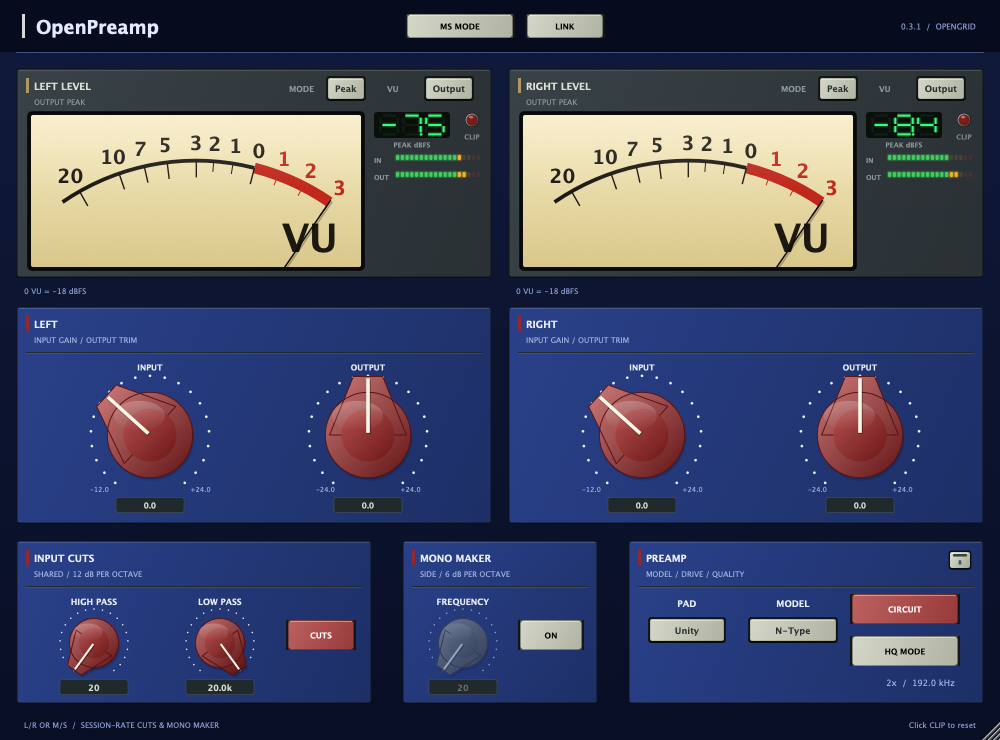
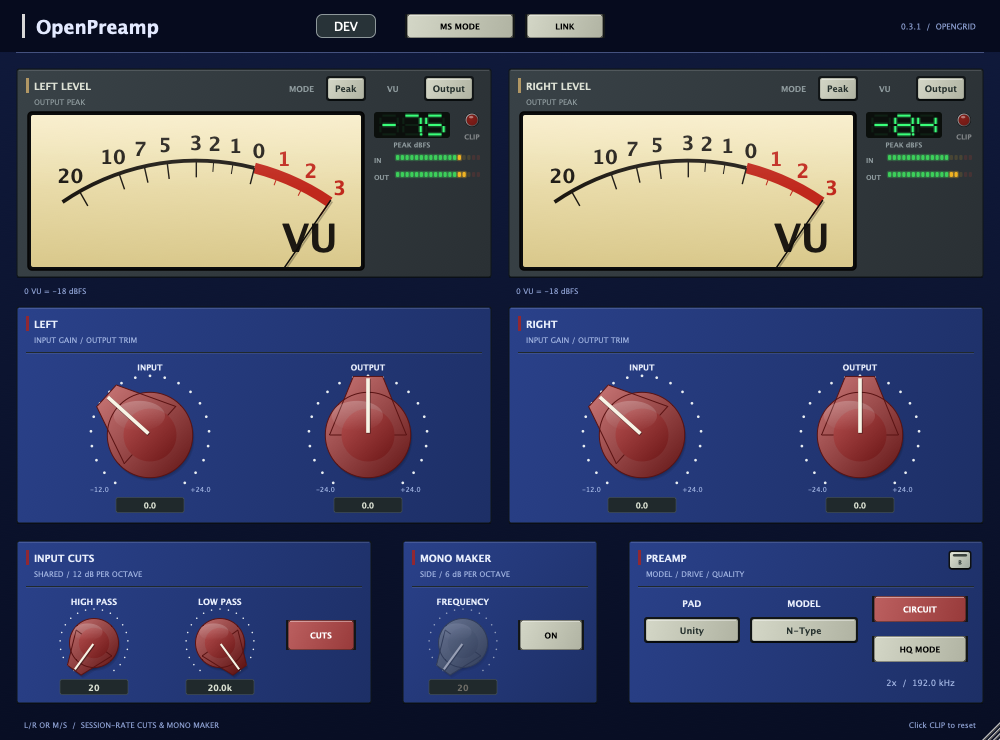
Allow compact UI and direct two-choice meter toggles

Changed region(s): [[0.682, 0.777, 0.992, 0.9014], [0.31, 0.0, 0.372, 0.0622], [0.62, 0.8392, 0.651, 0.8703]]

diff --git a/tests/openpreamp_stereo_tools.h b/tests/openpreamp_stereo_tools.h
@@ -56,6 +56,29 @@ static void runStereoToolsChecks() {
             check(matching==2,"Both independent VUs restore the shared Peak/RMS choice");
         }
     }
+    {
+        OpenPreampProcessor p;std::unique_ptr<juce::AudioProcessorEditor> editor(p.createEditor());int buttons=0;
+        for(auto* surface : editor->getChildren())for(auto* child : surface->getChildren())if(auto* choice=dynamic_cast<CycleButton*>(child)) {
+            juce::String label;juce::TextButton* key=nullptr;
+            for(auto* control : choice->getChildren()) {
+                if(auto* title=dynamic_cast<juce::Label*>(control))label=title->getText();
+                if(auto* button=dynamic_cast<juce::TextButton*>(control))key=button;
+            }
+            if(key && (label=="MODE" || label=="VU")) {
+                const char* id=label=="MODE" ? "meterMode" : "meterSource";
+                const float original=p.apvts.getRawParameterValue(id)->load();
+                key->onClick();const float toggled=p.apvts.getRawParameterValue(id)->load();
+                key->onClick();const float restored=p.apvts.getRawParameterValue(id)->load();
+                check(std::abs(toggled-(1-original))<1e-6f && std::abs(restored-original)<1e-6f,"Two-choice meter key changes host parameter directly on each click");
+                ++buttons;
+            }
+        }
+        check(buttons==4,"Both VUs expose direct-click MODE and source keys");
+        editor->setSize(400,296);
+        const auto image=editor->createComponentSnapshot(editor->getLocalBounds());
+        juce::FileOutputStream file(juce::File("/private/tmp/openpreamp-031-small.png"));
+        file.setPosition(0);file.truncate();juce::PNGImageFormat png;png.writeImageToStream(image,file);
+    }
     for(double rate : {44100.0,48000.0,96000.0})for(bool ms : {false,true}) {
         auto amplitude = [&](double frequency,bool side,bool enabled) {
             OpenPreampProcessor p;clean(p);set(p,"midSide",ms ? 1 : 0);set(p,"monoMakerEnabled",enabled ? 1 : 0);set(p,"monoMakerFrequency",200);prepare(p,rate);

diff --git a/Source/OpenPreampPlugin/PluginEditor.cpp b/Source/OpenPreampPlugin/PluginEditor.cpp
@@ -64,7 +64,7 @@ OpenPreampEditor::OpenPreampEditor(OpenPreampProcessor& p)
     rateLabel.setJustificationType(juce::Justification::centredRight);
     rateLabel.setInterceptsMouseClicks(false,false);
     setResizable(true,true);
-    setResizeLimits(750,555,1500,1110);
+    setResizeLimits(400,296,1500,1110);
     getConstrainer()->setFixedAspectRatio(1000.0/740.0);
     setSize(1000,740);
     loadKnobLayout(openPreampKnobDesign);
@@ -147,8 +147,8 @@ void OpenPreampEditor::resized()
     highPassDial.setBounds(24,54,108,102);lowPassDial.setBounds(150,54,108,102);
     cutsToggle.setBounds(270,80,70,30);
     monoMakerDial.setBounds(12,54,98,102);monoMakerToggle.setBounds(116,80,66,30);
-    preampPadBtn.setBounds(18,56,82,60);preampTypeBtn.setBounds(118,56,94,60);
-    preampCircuitToggle.setBounds(222,54,110,30);hqToggle.setBounds(222,96,110,30);
+    preampPadBtn.setBounds(14,56,100,60);preampTypeBtn.setBounds(120,56,112,60);
+    preampCircuitToggle.setBounds(244,56,96,26);hqToggle.setBounds(244,96,96,26);
     midSideToggle.setBounds(405,14,110,24);linkToggle.setBounds(525,14,80,24);
     rateLabel.setBounds(154,132,178,20);
 #if GOODLOOKINUI_ENABLE_EDITOR

diff --git a/Source/UI/CycleButton.h b/Source/UI/CycleButton.h
@@ -17,7 +17,7 @@ public:
     }
 };
 
-// A mechanical choice key opens a dropdown bound to stable DSP choice values.
+// Two-choice keys toggle directly; larger choice sets open a dropdown.
 class CycleButton : public juce::Component, private juce::AudioProcessorValueTreeState::Listener {
 public:
     CycleButton(juce::AudioProcessorValueTreeState& state, const juce::String& paramIDToUse,
@@ -40,7 +40,13 @@ public:
         button.setColour(juce::TextButton::buttonOnColourId, Theme::buttonBottom);
         button.setColour(juce::TextButton::textColourOffId, Theme::buttonText);
         button.setColour(juce::TextButton::textColourOnId, Theme::buttonText);
-        button.onClick = [this] { showChoices(); };
+        button.onClick = [this] {
+            if (param && param->choices.size() == 2) {
+                param->beginChangeGesture();
+                param->setValueNotifyingHost(param->getNormalisableRange().convertTo0to1(float(1-param->getIndex())));
+                param->endChangeGesture(); updateText();
+            } else showChoices();
+        };
         addAndMakeVisible(button);
 
         updateText();

diff --git a/tests/openpreamp_smoke.cpp b/tests/openpreamp_smoke.cpp
@@ -100,7 +100,7 @@ int main() {
         out.peak[0] = 0.42f; out.peak[1] = 0.38f;
         for (int i = 0; i < 30; ++i) meter->step(in, out, 1.0f / 30);
     }
-    for (const auto size : {juce::Point<int>(750,555), juce::Point<int>(1500,1110), juce::Point<int>(1000,740)}) {
+    for (const auto size : {juce::Point<int>(400,296), juce::Point<int>(500,370), juce::Point<int>(750,555), juce::Point<int>(1500,1110), juce::Point<int>(1000,740)}) {
         editor->setSize(size.x,size.y);
         check(contained(*editor), "scaled controls fit at small, large and default editor sizes");
     }

diff --git a/OPENPREAMP_HANDOFF.md b/OPENPREAMP_HANDOFF.md
@@ -1,7 +1,11 @@
 # OpenPreamp 0.3.1 stereo-tools update — 2026-10-08
 
 Adds the requested VUMT-style gain linking and mono maker to the approved dual
-layout. Version remains 0.3.1. VUMTdeluxe was tested interactively: Link disables
+layout. Version remains 0.3.1. Minimum editor size is now 400 × 296 (default
+1000 × 740, maximum 1500 × 1110). MODE and VU keys with two choices toggle
+directly on click; PAD and MODEL keep dropdowns. PAD/MODEL controls were widened
+and CIRCUIT/HQ narrowed. Filter DSP is unchanged: the reported low-end boost
+was a phase-response display mistaken for a magnitude plot. VUMTdeluxe was tested interactively: Link disables
 the right trim in L/R; M/S hides Link and enables independent Mid/Side trims;
 mono-maker power greys its controls. The reference settings were restored.
 VUMT also provides an Amount control; OpenPreamp implements the specifically
@@ -31,14 +35,15 @@ The header holds MS MODE (off = normal L/R) and Link; the bottom row holds cuts,
 and preamp settings. Input Cuts and Preamp both measure 356 × 164; Preamp
 was narrowed to match Input Cuts, with the mono maker centered between them. Saved colours, gain-knob geometry and resize limits are
 retained. Current UI-test Release VST3 built with developer mode ON and passed strict
-signature verification. All 220 smoke/routing checks passed, including opening
+signature verification. All 227 smoke/routing checks passed, including opening
 the DEV knob/layout and model-look window: linked gains, restoration
 on unlink, Link visible but disabled and dimmed in M/S, disabled right controls, Side-only 6 dB/octave
 response and Mid preservation at 44.1/48/96 kHz, every model against manually
 encoded/Side-filtered audio at native/2x/4x, state migration, Peak/RMS needle and numeric behavior, peak clips in RMS,
-shared meter-mode restore, and GUI layout.
+shared meter-mode restore, direct-click two-option meter controls, and GUI
+containment down to 400 × 296.
 The test VST3 replaces the prior 0.3.1 layout build; the 0.2.0 comparison remains
-untouched. The production Peak/RMS build is backed up in build/OpenPreamp-0.3.1-production-test-backup.vst3. Remove test installs only
+untouched. The previous developer build is backed up in build/OpenPreamp-0.3.1-before-compact-ui-test-backup.vst3. Remove test installs only
 when the owner explicitly says testing is finished.
 
 For UI refinement, click DEV in the header. The separate window contains

diff --git a/README.md b/README.md
@@ -10,7 +10,7 @@ without an EQ, spectrum display or separate harmonics engine.
 - **Off / bypass:** no circuit oversampling. Output trim and meters remain active.
 - **1000 × 740 resizable editor:** independent channel VUs with input/output selection,
   click **Peak / RMS** to switch the needles and numeric readouts together
-  (Peak initially). Peak ladders, peak hold and clip lamps keep detecting peaks
+  (Peak initially); both this key and Input/Output toggle directly on click. Peak ladders, peak hold and clip lamps keep detecting peaks
   in either mode. Model changes
   load OpenPreamp's saved plate, knob style and color mappings.
 - **Both channels always visible:** paired input/output controls below the dual
@@ -69,7 +69,7 @@ is in [LICENSE](LICENSE); dependencies are documented in
 
 ## Developer mode
 
-The 0.3.1 editor opens at 1000 × 740 and resizes proportionally from 750 × 555
+The 0.3.1 editor opens at 1000 × 740 and resizes proportionally from 400 × 296
 through 1500 × 1110. Its VUMT-inspired arrangement keeps both meters across
 the top, paired channel input/output knobs below, and shared cuts/preamp
 settings in the bottom row. The saved model colours and knob styles are retained.
